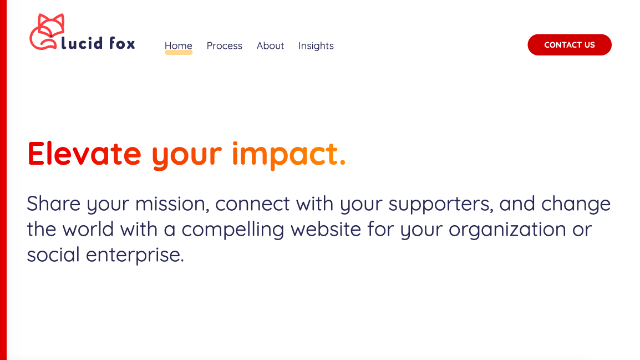
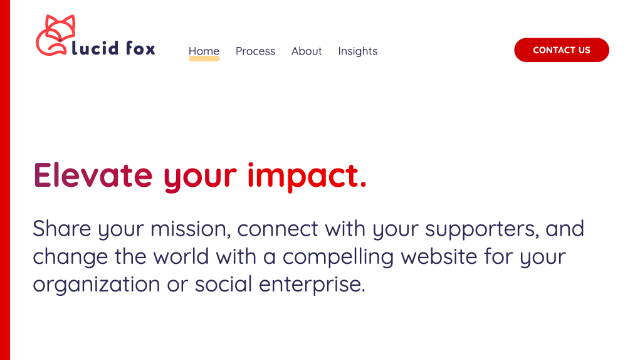
Amend text and image for lucid fox

Changed region(s): [[0.0, 0.0, 0.9688, 1.0], [0.7812, 0.0917, 0.9688, 0.1833]]

diff --git a/src/posts/2020-12-12-lucid-fox.md b/src/posts/2020-12-12-lucid-fox.md
@@ -5,4 +5,4 @@ image: lucid-fox.jpg
 wcag_grade: AA
 ---
 
-Lucid Fox meets grade AA overall. The footer is contained inside another footer landmark which might cause some confusion for some screen reader users. Additionally, some headings use a gradient background colour which periodically transitions to bright orange which might otherwise fail at this grade.
+Lucid Fox meets grade AA overall. The footer is contained inside another footer landmark which might cause some confusion for some screen reader users. Additionally, some headings use a gradient background for text colour which periodically transitions to bright orange, that could arguably fail an audit on colour contrast.
